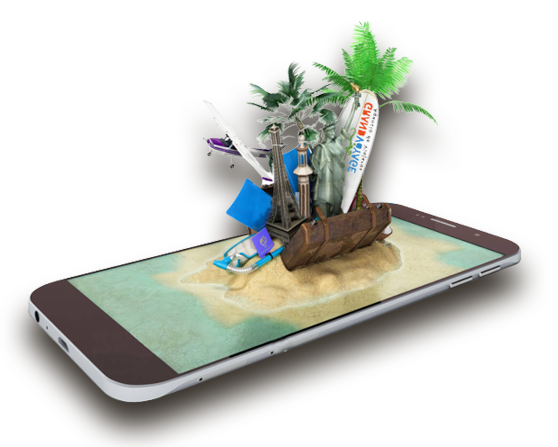
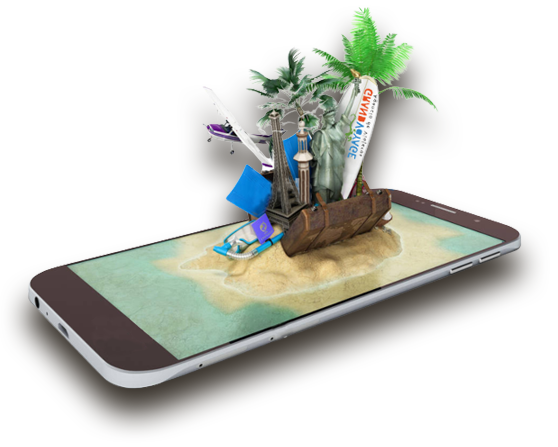
animation movil 3d

diff --git a/docs/js/animations.js b/docs/js/animations.js
@@ -1,14 +1,46 @@
 gsap.registerPlugin(ScrollTrigger);
 
+
 const movil = document.querySelector('#movil__animated');
 const movil2 = document.querySelector('#movil__animated2');
 const movil3 = document.querySelector('#movil__animated3');
+
+
+
+
+
+
+const tl3 = gsap.timeline({
+                   
+        scrollTrigger:{
+        trigger:"body",
+        markers:false,
+        start:"25% 0%",
+        end:"80% 100%",
+        scrub:3,
+        pin:true,
+        },
+});
+
+
+ 
+
+
+ tl3.to(movil3,
+         {   
+         ease:'power1',
+         
+         marginTop:'-5%',
+         marginLeft:'60%'});
+
+
+
 
 const tl = gsap.timeline({
                    
                   scrollTrigger:{
                   trigger:".popular__table",
-                  markers:true,
+                  markers:false,
                   start:"20% 20%",
                   end:"20% 20%",
                   scrub:3,
@@ -30,150 +62,14 @@ tl.to(movil2,{
         "-=500");
 
 
-const tl3 = gsap.timeline({
-                   
-                scrollTrigger:{
-                trigger:".popular__table",
-                markers:true,
-                start:"30% 20%",
-                end:"30% 100%",
-                scrub:3,
-                pin:true,
-        },
-});
-const tl4 = gsap.timeline({
-                   
-        scrollTrigger:{
-        trigger:".popular__table",
-        markers:true,
-        start:"40% 20%",
-        end:"40% 100%",
-        scrub:3,
-        pin:true,
-},
-});
-const tl5 = gsap.timeline({
-                   
-        scrollTrigger:{
-        trigger:".popular__table",
-        markers:true,
-        start:"50% 20%",
-        end:"50% 100%",
-        scrub:3,
-        pin:true,
-},
-});
-const tl6= gsap.timeline({
-                   
-        scrollTrigger:{
-        trigger:".popular__table",
-        markers:true,
-        start:"60% 20%",
-        end:"60% 100%",
-        scrub:3,
-        pin:true,
-},
-});
-const tl7 = gsap.timeline({
-                   
-        scrollTrigger:{
-        trigger:".popular__table",
-        markers:true,
-        start:"70% 20%",
-        end:"70% 100%",
-        scrub:3,
-        pin:true,
-},
-});
-const tl8 = gsap.timeline({
-                   
-        scrollTrigger:{
-        trigger:".popular__table",
-        markers:true,
-        start:"80% 20%",
-        end:"80% 100%",
-        scrub:3,
-        pin:true,
-},
-});
-const tl9 = gsap.timeline({
-                   
-        scrollTrigger:{
-        trigger:".popular__table",
-        markers:true,
-        start:"90% 20%",
-        end:"90% 100%",
-        scrub:3,
-        pin:true,
-},
-});
-const tl10 = gsap.timeline({
-                   
-        scrollTrigger:{
-        trigger:".popular__table",
-        markers:true,
-        start:"100% 20%",
-        end:"100% 100%",
-        scrub:3,
-        pin:true,
-},
-});
 
 
-tl.to(movil3,{   
-          display:'inline',
-          right:'1%',
-          ease:'power1',
-          duration:500},
-          "-=500"); 
-tl3.to(movil3,{   
-          display:'inline',
-          right:'2%',
-          ease:'power1',
-          duration:500},
-          "-=500"); 
-tl4.to(movil3,{   
-          display:'inline',
-          right:'3%',
-          ease:'power1',
-          duration:500},
-          "-=500");                 
-tl5.to(movil3,{   
-          display:'inline',
-          right:'4%',
-          ease:'power1',
-          duration:500},
-          "-=500"); 
- tl6.to(movil3,{   
-          display:'inline',
-          right:'5%',
-          ease:'power1',
-          duration:500},
-          "-=500"); 
-tl7.to(movil3,{   
-          display:'inline',
-          right:'6%',
-          ease:'power1',
-          duration:500},
-          "-=500");
-tl8.to(movil3,{   
-          display:'inline',
-          right:'7%',
-          ease:'power1',
-          duration:500},
-          "-=500"); 
- tl9.to(movil3,{   
-          display:'inline',
-          right:'8%',
-          ease:'power1',
-          duration:500},
-          "-=500"); 
-tl10.to(movil3,{   
-          display:'inline',
-          right:'9%',
-          ease:'power1',
-          duration:500},
-          "-=500");         
+
+
+
+
+
+
 
 const fade__div = document.querySelector('.planify__fade__in');
 
@@ -192,6 +88,7 @@ const tl2 = gsap.timeline({
 
        
          tl2.to(fade__div,{
+             
                 opacity:1,
                 duration:5
         },"+=1")

diff --git a/docs/index.html b/docs/index.html
@@ -18,6 +18,7 @@
     <script src="https://kit.fontawesome.com/e0de392707.js" crossorigin="anonymous"></script>
     <script src="https://cdnjs.cloudflare.com/ajax/libs/gsap/3.5.1/gsap.min.js"></script>
     <script src="https://cdnjs.cloudflare.com/ajax/libs/gsap/3.5.1/ScrollTrigger.min.js"></script>
+
     <script src="https://kit.fontawesome.com/48764efa36.js" crossorigin="anonymous"></script>
 
 
@@ -151,8 +152,8 @@
             <div class="popular__table" id="popular__table">
 
                 <!--se ejecuta popular_generate.js -->
-
             </div>
+
         </section>
 
 
@@ -197,7 +198,7 @@
 
             </div>
 
-            <img src="./images/movil__viaje.png" id="movil__animated3" class="guia__img" alt="imagen de moviles">
+            <img src="./images/movil__viaje.png" id="movil__animated3" alt="imagen de moviles">
 
         </section>
 

diff --git a/docs/css/styles.css b/docs/css/styles.css
@@ -27,6 +27,7 @@
 
 body {
     font-family: 'Jakarta', Semibold;
+
 }
 
 .container {
@@ -562,9 +563,10 @@ body {
 }
 
 #movil__animated3 {
+    display: inherit;
     position: absolute;
-    display: none;
-    right: -50%;
+    margin-top: -20%;
+    margin-left: 155%;
     height: 500px;
     width: 550px;
 }
@@ -1345,6 +1347,9 @@ body {
         flex-wrap: wrap;
     }
 
+    #movil__animated3 {
+        display: none;
+    }
 
     .swiper-navBtn::before,
     .swiper-navBtn::after {
@@ -1671,11 +1676,15 @@ body {
     }
 
     .guia__element {
-
+        margin-left: 25px;
         margin-top: 50px;
     }
 
     #movil__animated2 {
+        display: none;
+    }
+
+    #movil__animated3 {
         display: none;
     }
 
